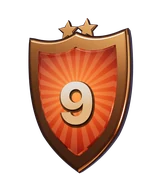
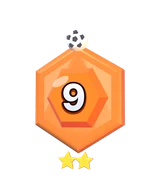
Новый значок дивизиона: самоцвет в глянцевой оправе, крылья по ступени; внешность 3D-звёзд как у настоящих игроков
Claude-Session: https://claude.ai/code/session_01VpcaxWoBDaJdgiPA1Q4kL3

diff --git a/tools/art/divs.html b/tools/art/divs.html
@@ -45,56 +45,55 @@ function shield(k = 1) {
 function star(r1, r2, n = 5) { const p = new THREE.Shape(); for (let i = 0; i <= n * 2; i++) { const a = Math.PI / 2 + i * Math.PI / n, r = i % 2 ? r2 : r1; const x = Math.cos(a) * r, y = Math.sin(a) * r; i ? p.lineTo(x, y) : p.moveTo(x, y); } return p; }
 const metal = (c, o = {}) => new THREE.MeshStandardMaterial({ color: L(c), metalness: 1, roughness: 0.22, envMapIntensity: 1.4, ...o });
 const ext = (shape, depth, bevel, mat) => { const g = new THREE.ExtrudeGeometry(shape, { depth, bevelEnabled: true, bevelThickness: bevel, bevelSize: bevel, bevelSegments: 6, curveSegments: 48 }); g.center(); return new THREE.Mesh(g, mat); };
+// 23.11: новый значок в мультяшном стиле мячей пользователя — толстая глянцевая оправа-щит, в центре гранёный
+// самоцвет цвета ступени с крупным белым номером, крылья растут со ступенью (серебро — малые, золото и элита — большие),
+// сверху маленький мяч (у элиты — корона), снизу звёзды — место внутри ступени
+const G2 = {
+  bronze: { rim: '#d9772e', rimHi: '#ffb070', gem: '#ff6a1a', gemD: '#9a2a00', wing: 0 },
+  silver: { rim: '#b9c7dc', rimHi: '#ffffff', gem: '#2f8cff', gemD: '#0b2f8a', wing: 1 },
+  gold: { rim: '#ffb800', rimHi: '#fff0a0', gem: '#ff2e63', gemD: '#7a0024', wing: 2 },
+  elite: { rim: '#1c2414', rimHi: '#c6ff3d', gem: '#7cff1a', gemD: '#1f6a00', wing: 2, crown: true },
+};
+const gp = (c, o = {}) => new THREE.MeshPhysicalMaterial({ color: L(c), roughness: 0.22, metalness: 0.25, clearcoat: 1, clearcoatRoughness: 0.08, ...o });
+function hexShape(r, k = 1) { const p = new THREE.Shape(); for (let j = 0; j <= 6; j++) { const a = Math.PI / 2 + j * Math.PI / 3; const x = Math.cos(a) * r, y = Math.sin(a) * r * k; j ? p.lineTo(x, y) : p.moveTo(x, y); } return p; }
+function wingShape() { // одно крыло (правое): три пера
+  const p = new THREE.Shape(); p.moveTo(0, 0.35); p.bezierCurveTo(0.5, 0.75, 1.1, 0.85, 1.35, 0.7); p.bezierCurveTo(1.05, 0.55, 0.95, 0.45, 1.25, 0.3);
+  p.bezierCurveTo(0.95, 0.2, 0.85, 0.05, 1.05, -0.12); p.bezierCurveTo(0.7, -0.12, 0.45, -0.25, 0.7, -0.45); p.bezierCurveTo(0.3, -0.4, 0.05, -0.2, 0, -0.1); p.lineTo(0, 0.35); return p; }
 window.renderDiv = async (i, w, h) => {
   await document.fonts.load('800 40px IB');
-  const tn = tierOf(i), T = TIERS[tn], s = rig(w, h, T), G = new THREE.Group(); s.add(G);
-  // обод и эмаль
-  const rim = ext(shield(1), 0.22, 0.1, metal(T.metal, tn === 'elite' ? { roughness: 0.35 } : {})); G.add(rim);
-  // эмаль: насыщенный цвет, свет в центре, тёмные края (виньетка), едва заметные лучи
-  const em = tex(512, 512, (g) => { g.fillStyle = T.enamel; g.fillRect(0, 0, 512, 512);
-    const c = g.createRadialGradient(256, 236, 0, 256, 236, 250); c.addColorStop(0, T.lit + 'aa'); c.addColorStop(0.55, T.lit + '33'); c.addColorStop(1, T.lit + '00'); g.fillStyle = c; g.fillRect(0, 0, 512, 512);
-    g.globalAlpha = 0.07; g.fillStyle = '#ffffff';
-    for (let k = 0; k < 24; k++) { const a = k * Math.PI / 12; g.beginPath(); g.moveTo(256, 236); g.arc(256, 236, 520, a, a + Math.PI / 24); g.closePath(); g.fill(); }
-    g.globalAlpha = 1; const v = g.createRadialGradient(256, 256, 140, 256, 256, 340); v.addColorStop(0, 'rgba(0,0,0,0)'); v.addColorStop(1, 'rgba(0,0,0,.7)'); g.fillStyle = v; g.fillRect(0, 0, 512, 512); });
-  em.repeat.set(0.31, 0.31); em.offset.set(0.5, 0.5);
-  const inner = ext(shield(0.8), 0.06, 0.04, new THREE.MeshStandardMaterial({ color: 0xffffff, map: em, emissive: 0xffffff, emissiveMap: em, emissiveIntensity: 0.55, metalness: 0, roughness: 0.18, envMapIntensity: 0.5 })); inner.position.set(0, 0.0, 0.17); G.add(inner);
-  if (T.trim) { const tr = ext(shield(0.86), 0.02, 0.02, new THREE.MeshBasicMaterial({ color: L(T.trim) })); tr.position.z = 0.15; G.add(tr); }
-  // номер: металлический градиент с тенью, на плоскости над эмалью
+  const tn = tierOf(i), T = G2[tn], s = rig(w, h, TIERS[tn]), G = new THREE.Group(); s.add(G);
+  R.toneMapping = THREE.NoToneMapping;
+  // крылья (за оправой)
+  if (T.wing) { const sc = T.wing === 1 ? 0.72 : 1.05;
+    [-1, 1].forEach((sx) => { const wg = ext(wingShape(), 0.14, 0.06, gp(tn === 'elite' ? '#c6ff3d' : T.rim, tn === 'elite' ? { emissive: L('#2a6a00'), emissiveIntensity: 0.5 } : {})); wg.geometry.translate(0.68, 0.1, 0);
+      wg.scale.set(sx * sc, sc, 1); wg.position.set(sx * 0.72, 0.15, -0.25); G.add(wg); }); }
+  // оправа: толстый скруглённый шестиугольник
+  const rim = ext(hexShape(1.12, 1.08), 0.34, 0.16, gp(T.rim, tn === 'elite' ? { metalness: 0.4 } : {})); G.add(rim);
+  const rim2 = ext(hexShape(0.98, 1.08), 0.06, 0.05, gp(T.rimHi, { metalness: 0.5 })); rim2.position.z = 0.25; G.add(rim2);
+  // самоцвет: гранёный (плоские грани), цвет ступени, светится изнутри
+  const gemG = new THREE.CylinderGeometry(0.62, 0.86, 0.5, 6, 1); gemG.rotateX(Math.PI / 2); gemG.rotateZ(Math.PI / 6);
+  const gem = new THREE.Mesh(gemG, new THREE.MeshPhysicalMaterial({ color: L(T.gem), emissive: L(T.gemD), emissiveIntensity: 0.9, roughness: 0.08, metalness: 0.1, clearcoat: 1, flatShading: true }));
+  gem.scale.set(1, 1.08, 1); gem.position.z = 0.42; G.add(gem);
+  // номер: крупный белый с тёмной обводкой (мультяшно)
   const num = i >= 9 ? '★' : String(10 - i);
-  const nt = tex(512, 512, (g) => { g.textAlign = 'center'; g.textBaseline = 'middle'; const big = num.length > 1 ? 330 : 380;
-    g.font = `800 ${i >= 9 ? 330 : big}px IB`; const x = 256, y = 276;
-    g.lineJoin = 'round'; g.lineWidth = 22; g.strokeStyle = 'rgba(0,0,0,.6)'; g.strokeText(num, x + 6, y + 10); g.fillStyle = 'rgba(0,0,0,.6)'; g.fillText(num, x + 6, y + 10);
-    const q = g.createLinearGradient(0, 110, 0, 420); q.addColorStop(0, T.ink[0]); q.addColorStop(0.55, T.ink[1]); q.addColorStop(1, T.ink[1]); g.fillStyle = q; g.fillText(num, x, y);
-    });
-  const np = new THREE.Mesh(new THREE.PlaneGeometry(1.6, 1.6), new THREE.MeshBasicMaterial({ map: nt, transparent: true, depthWrite: false })); np.position.set(0, -0.05, 0.25); G.add(np);
-  // блик стекла поверх эмали
-  const gl = new THREE.Mesh(new THREE.PlaneGeometry(2, 2.4), new THREE.MeshBasicMaterial({ map: tex(256, 256, (g) => { const q = g.createLinearGradient(0, 0, 256, 256); q.addColorStop(0, 'rgba(255,255,255,.12)'); q.addColorStop(0.45, 'rgba(255,255,255,.02)'); q.addColorStop(0.5, 'rgba(255,255,255,0)'); g.fillStyle = q; g.fillRect(0, 0, 256, 256); }), transparent: true, depthWrite: false }));
-  gl.position.set(0, 0, 0.26); gl.scale.set(0.78, 0.78, 1); G.add(gl);
-  // сверху: звёзды по номеру внутри ступени (1–3), у элиты — корона
-  const top = new THREE.Group(); G.add(top); top.position.set(0, 1.42, 0.05);
-  if (tn === 'elite') {
-    const cr = new THREE.Shape(); cr.moveTo(-0.5, 0); cr.lineTo(-0.56, 0.42); cr.lineTo(-0.26, 0.2); cr.lineTo(0, 0.55); cr.lineTo(0.26, 0.2); cr.lineTo(0.56, 0.42); cr.lineTo(0.5, 0); cr.lineTo(-0.5, 0);
-    const c = ext(cr, 0.12, 0.04, metal('#f0c23a')); c.position.y = 0.12; top.add(c);
-    [-0.56, 0, 0.56].forEach((x, k) => { const b = new THREE.Mesh(new THREE.SphereGeometry(0.07, 16, 12), new THREE.MeshBasicMaterial({ color: L('#c6ff3d') })); b.position.set(x, (k === 1 ? 0.55 : 0.42) - 0.275 + 0.12, 0.1); top.add(b); });
-  } else {
-    const n = (i % 3) + 1; for (let k = 0; k < n; k++) { const st = ext(star(0.2, 0.09), 0.06, 0.03, metal(T.hi === '#ffffff' ? '#e8eef8' : T.metal)); st.position.set((k - (n - 1) / 2) * 0.42, 0.12 + (k === (n - 1) / 2 ? 0.06 : 0), 0); top.add(st); }
-  }
-  // лавры у золота и элиты
-  if (tn === 'gold' || tn === 'elite') {
-    const lm = metal(tn === 'elite' ? '#c6ff3d' : T.metal, tn === 'elite' ? { metalness: 0.6, roughness: 0.3, emissive: L('#3c6a00'), emissiveIntensity: 0.6 } : {});
-    [-1, 1].forEach((sx) => {
-      const P = (a, rr = 1.3) => new THREE.Vector3(sx * Math.cos(a) * rr * 0.95, Math.sin(a) * rr - 0.12, -0.12);
-      const a0 = -1.72, a1 = 0.35, stem = new THREE.CatmullRomCurve3([0, 0.25, 0.5, 0.75, 1].map((t) => P(a0 + (a1 - a0) * t)));
-      G.add(new THREE.Mesh(new THREE.TubeGeometry(stem, 40, 0.035, 8), lm));
-      for (let k = 0; k < 8; k++) { const t = 0.08 + k / 8.2, a = a0 + (a1 - a0) * t, sz = 0.85 + 0.25 * Math.sin(t * Math.PI);
-        const pt = P(a), tg = stem.getTangent(Math.min(1, t)); const ang = Math.atan2(tg.y, tg.x);
-        [-1, 1].forEach((side) => { const leaf = new THREE.Mesh(new THREE.SphereGeometry(0.15, 18, 10), lm); leaf.scale.set(0.38 * sz, 1.05 * sz, 0.28);
-          leaf.rotation.z = ang - Math.PI / 2 + side * 0.65; const off = new THREE.Vector3(Math.cos(ang + side * Math.PI / 2), Math.sin(ang + side * Math.PI / 2), 0).multiplyScalar(0.1 * sz);
-          leaf.position.copy(pt).add(off).add(new THREE.Vector3(tg.x, tg.y, 0).multiplyScalar(0.06)); G.add(leaf); }); }
-    });
-  }
-  G.rotation.set(-0.08, -0.32, 0.02);
-  const cam = new THREE.PerspectiveCamera(30, w / h, 0.1, 50); cam.position.set(0, 0.25, 7.6); cam.lookAt(0, 0.12, 0);
+  const nt = tex(512, 512, (g) => { g.textAlign = 'center'; g.textBaseline = 'middle'; g.font = `800 ${num.length > 1 ? 300 : 360}px IB`; const x = 256, y = 270;
+    g.lineJoin = 'round'; g.lineWidth = 46; g.strokeStyle = T.gemD; g.strokeText(num, x, y + 10);
+    g.lineWidth = 30; g.strokeStyle = '#1a0a04'; g.strokeText(num, x, y);
+    const q = g.createLinearGradient(0, 120, 0, 400); q.addColorStop(0, '#ffffff'); q.addColorStop(1, '#dfe8ff'); g.fillStyle = q; g.fillText(num, x, y); });
+  const np = new THREE.Mesh(new THREE.PlaneGeometry(1.25, 1.25), new THREE.MeshBasicMaterial({ map: nt, transparent: true, depthWrite: false })); np.position.set(0, -0.02, 0.69); G.add(np);
+  // блик на самоцвете
+  const hl = new THREE.Mesh(new THREE.CircleGeometry(0.16, 24), new THREE.MeshBasicMaterial({ color: 0xffffff, transparent: true, opacity: 0.55 })); hl.scale.set(1.4, 0.6, 1); hl.position.set(-0.32, 0.38, 0.7); hl.rotation.z = 0.5; G.add(hl);
+  // сверху: мяч или корона
+  if (T.crown) { const cr = new THREE.Shape(); cr.moveTo(-0.5, 0); cr.lineTo(-0.58, 0.46); cr.lineTo(-0.27, 0.22); cr.lineTo(0, 0.6); cr.lineTo(0.27, 0.22); cr.lineTo(0.58, 0.46); cr.lineTo(0.5, 0); cr.lineTo(-0.5, 0);
+    const c = ext(cr, 0.16, 0.05, gp('#ffc21a', { metalness: 0.5 })); c.position.set(0, 1.42, 0.1); G.add(c);
+  } else { const ball = new THREE.Mesh(new THREE.SphereGeometry(0.26, 32, 24), gp('#ffffff', { metalness: 0 })); ball.position.set(0, 1.42, 0.3); G.add(ball);
+    for (let k = 0; k < 5; k++) { const a = k * 1.2566 + 0.3, pn = new THREE.Mesh(new THREE.CircleGeometry(0.07, 5), new THREE.MeshBasicMaterial({ color: 0x1a1a22 })); pn.position.set(Math.cos(a) * 0.17, 1.42 + Math.sin(a) * 0.17, 0.52); pn.lookAt(0, 1.42, 3); G.add(pn); }
+    const pc = new THREE.Mesh(new THREE.CircleGeometry(0.075, 5), new THREE.MeshBasicMaterial({ color: 0x1a1a22 })); pc.position.set(0, 1.42, 0.565); G.add(pc); }
+  // снизу: звёзды — место внутри ступени (1–3)
+  const n = tn === 'elite' ? 3 : (i % 3) + 1;
+  for (let k = 0; k < n; k++) { const st = ext(star(0.19, 0.085), 0.08, 0.03, gp('#ffd23a', { metalness: 0.4, emissive: L('#7a4a00'), emissiveIntensity: 0.3 })); st.position.set((k - (n - 1) / 2) * 0.42, -1.52 - (k === (n - 1) / 2 ? 0.06 : 0), 0.45); G.add(st); }
+  G.rotation.set(-0.05, -0.22, 0);
+  const cam = new THREE.PerspectiveCamera(30, w / h, 0.1, 50); cam.position.set(0, 0.1, 9.2); cam.lookAt(0, 0.06, 0);
   R.render(s, cam); return R.domElement.toDataURL('image/png');
 };
 </script></body></html>

diff --git a/js/playerkit.js b/js/playerkit.js
@@ -321,6 +321,16 @@ const PlayerKit = (() => {
   }
 
   // Игрок из карточки (Cards.all()): форма клуба, номер, внешность по card.key
+  // 23.11: внешность звёзд — цвет кожи, причёска и волосы как у настоящего игрока (лицо модели общее, без портрета)
+  const LOOKS = {
+    'Килиан Мбаппе': { skin: 4, hair: '#120c08', style: 'shaved', build: { slim: 0, heavy: 0, muscular: 0.6 }, height: 0.985 },
+    'Винисиус Жуниор': { skin: 4, hair: '#120c08', style: 'afro', build: { slim: 0.6, heavy: 0, muscular: 0 }, height: 0.97 },
+    'Джуд Беллингем': { skin: 3, hair: '#120c08', style: 'buzz', build: { slim: 0, heavy: 0, muscular: 0.5 }, height: 1 },
+    'Эрлинг Холанд': { skin: 0, hair: '#c9a05a', style: 'medium', build: { slim: 0, heavy: 0.3, muscular: 0.9 }, height: 1.04 },
+    'Мохамед Салах': { skin: 3, hair: '#120c08', style: 'afro', build: { slim: 0, heavy: 0, muscular: 0.5 }, height: 0.95 },
+    'Ламин Ямаль': { skin: 3, hair: '#120c08', style: 'short', build: { slim: 0.8, heavy: 0, muscular: 0 }, height: 0.98 },
+    'Николас Джексон': { skin: 5, hair: '#120c08', style: 'buzz', build: { slim: 0.5, heavy: 0, muscular: 0.3 }, height: 1.01 },
+  };
   function forCard(card, extra = {}) {
     const gk = card.pos === 'ВРТ';
     // у легенд позиции крупные: ЗАЩ, ПЗ (= полузащитник), ФРВ; у действующих ПЗ — правый защитник
@@ -329,7 +339,8 @@ const PlayerKit = (() => {
     const seed = hash(card.key || card.name);
     const n = numberOf(card.name, card.club, pos) ?? posNumber(pos, seed >>> 8);
     if (n != null) base.number = n;
-    return random(seed, Object.assign(base, extra), pos);
+    const lk = LOOKS[card.name] ? Object.assign({}, LOOKS[card.name], { hair: HAIR.includes(LOOKS[card.name].hair) ? LOOKS[card.name].hair : HAIR[0] }) : {};
+    return random(seed, Object.assign(base, lk, extra), pos);
   }
 
   // Из формы клуба, как её считает Arena3D.parts.kitFrom (shirt/sleeve/shorts/socks — THREE.Color)

diff --git a/index.html b/index.html
@@ -801,7 +801,7 @@
 <script defer src="js/xdraft/engine.js?v=20261014-frv1"></script>
 <script defer src="js/xdraft/ui.js?v=20261030-x1"></script>
 <script defer src="js/arena3d.js?v=20261028-lod"></script>
-<script defer src="js/playerkit.js?v=20261028-lod"></script>
+<script defer src="js/playerkit.js?v=20261123-dv4"></script>
 <script defer src="js/xdraft/match.js?v=20261121-on2"></script>
 <script defer src="js/squad.js?v=20261105-lm1"></script>
 <script defer src="js/football.js?v=20261114-on1"></script>
@@ -819,7 +819,7 @@
 <link rel="stylesheet" href="css/market.css?v=20261029-d1">
 <link rel="stylesheet" href="css/fcm.css?v=20261122-bg1">
 <link rel="stylesheet" href="css/lime.css?v=20261122-ev1">
-<link rel="stylesheet" href="css/division.css?v=20261123-pr1">
+<link rel="stylesheet" href="css/division.css?v=20261123-dv5">
 <link rel="stylesheet" href="css/result.css?v=20261114-rs2">
 <link rel="stylesheet" href="css/plate.css?v=20261114-pl3">
 <link rel="stylesheet" href="css/home.css?v=20261123-pr1">
@@ -891,7 +891,7 @@
 <script defer src="js/onboard.js?v=20261122-nb1"></script>
 <script defer src="js/hero3d.js?v=20261123-h1"></script>
 <script defer src="js/league.js?v=20261122-lg3"></script>
-<script defer src="js/fcm.js?v=20261123-pr1"></script>
+<script defer src="js/fcm.js?v=20261123-dv4"></script>
 <script defer src="js/fx.js?v=20261114-rs1"></script>
 <script>
 /* Автообновление: Telegram держит старую копию игры. При запуске (и при возврате в игру на главной) сверяем

diff --git a/js/fcm.js b/js/fcm.js
@@ -100,7 +100,7 @@ const FCM = (() => {
   // ---- дивизионы (5.11, js/division.js) ----
   const carLabel = () => { try { const S0 = ClubPath.S(), c = ClubPath.CH[Math.min(S0.ch, ClubPath.CH.length) - 1]; return `Глава ${c.id} · ${c.t}`; } catch (e) { return 'Сюжет и задания'; } };
   // значок дивизиона (21.11) — 3D-рендер из tools/art/divs.html: щит из металла ступени, номер, звёзды, лавры, корона
-  const dvImg = (i, big) => `img/div/d${Math.max(0, Math.min(9, i))}-${big ? 384 : 192}.webp?v=3`;
+  const dvImg = (i, big) => `img/div/d${Math.max(0, Math.min(9, i))}-${big ? 384 : 192}.webp?v=4`;
   const dvBadge = (i, big) => `<span class="dvb2 ${big ? 'big' : ''}"><i class="dvb2-glow t-${Division.tier(i)}"></i><img src="${dvImg(i, big)}" alt="${esc(Division.name(i))}"></span>`;
   const dvBar = () => { const D = Division, s = D.week(), i = D.idx(), nx = D.START[i + 1]; return { s, i, nx, pct: nx ? Math.max(3, Math.round(100 * (s.pts - D.START[i]) / (nx - D.START[i]))) : 100 }; };
   function divHero() {

diff --git a/css/division.css b/css/division.css
@@ -157,3 +157,10 @@
 @keyframes prOld { 0% { transform: none; } 30% { transform: rotate(-6deg) scale(1.05); } 45% { transform: rotate(6deg) scale(1.05); filter: brightness(2); } 100% { transform: translateY(60vh) rotate(40deg) scale(.6); opacity: 0; } }
 @keyframes prNew { from { opacity: 0; transform: perspective(600px) rotateY(540deg) scale(.2); } to { opacity: 1; transform: perspective(600px) rotateY(0) scale(1); } }
 @media (prefers-reduced-motion: reduce) { .promo *, .promo { animation-duration: .01s !important; animation-delay: 0s !important; } }
+/* 23.11: новый значок шире (крылья) — крупнее на главной и на дороге */
+@media (orientation: landscape) and (max-height: 620px), (orientation: landscape) and (min-width: 900px) {
+  .hm2 .hm-emb .dvb2.big { width: clamp(150px, 22vw, 230px) !important; margin: -20px -14px; }
+  .dr-n.on .dvb2.big { width: clamp(110px, 17vw, 160px) !important; }
+  .dr-i { width: clamp(52px, 9vw, 80px) !important; }
+  .dvb2.big { width: 150px; }
+}

diff --git a/docs/product-plan.md b/docs/product-plan.md
@@ -464,3 +464,4 @@ tackle, receive, spin, juggle, gk_idle, gk_dive, gk_catch` (`tools/art/player/re
 - **3D-иконки наград (23.11)** — монета, лаймовое очко, кубок: `tools/art/items.html` (`node tools/art/render.js items` → `img/items/{coin,lime,cup}-{256,96}.webp`), глянец в стиле мячей пользователя. В новом виде заменяют плоские `.coin`/`.lime` и значок трофеев (`css/clean.css`). Ячейки пропуска и пути трофеев крупнее (по высоте экрана), значки почти во всю ячейку, готовые награды покачиваются.
 - **Чистка окон и рынок (23.11)** — после пака: без «3 карточки · новых: 2» и «В паке +N», карточки по высоте экрана и не уходят под кнопку (до 8 одним рядом). Окно карточки: без «Сезон · Премиум», клуба и «1/83», на карточке нет вертикальной «Пропуск · премиум». Продажа: имя, цена, срок, «Получишь …», «Выставить» и «Быстро»; непередаваемая — только быстрая продажа. Прокачка: без «у тебя …», «Дальше дороже» и описания, кнопка лаймовая. Рынок — сетка крупных карточек с ценой «купить сразу» под каждой, время в углу; фильтры: все / золото / особые и рейтинг.
 - **3D и анимации (23.11)** — главная: звезда команды — 3D-игрок в форме своего клуба чеканит мяч (`js/hero3d.js`, анимация `juggle` из `assets3d/player.glb`, мяч прыгает от верхней ступни; нет WebGL — карточка). «Играть»: мяч влетает из-за края, бьёт в кнопку, экран вздрагивает, потом поиск (`kickToPlay`). Открытие мяча: светящиеся трещины цвета редкости растут на каждом толчке (`.po-crack`), затем разлёт. Дивизионы: экран — дорога значков 10 → Элита с наградой недели под каждым, текущий крупно и покачивается; снизу очки, награда, «Состав», «Играть». Повышение — старый щит трескается и падает, новый влетает с вращением и лучами (`promoFx`).
+- **Значок дивизиона v3 и внешность звёзд (23.11)** — значок в мультяшном стиле мячей: глянцевая шестиугольная оправа цвета ступени, гранёный самоцвет (бронза — оранжевый, серебро — синий, золото — малиновый, элита — лаймовый) с белым номером в обводке, крылья у серебра и выше, сверху мяч (у элиты — корона), снизу звёзды (`tools/art/divs.html`). `PlayerKit.forCard`: таблица `LOOKS` — кожа, причёска, цвет волос и телосложение для звёзд (Мбаппе, Винисиус, Беллингем, Холанд, Салах, Ямаль, Джексон); лицо модели общее.
